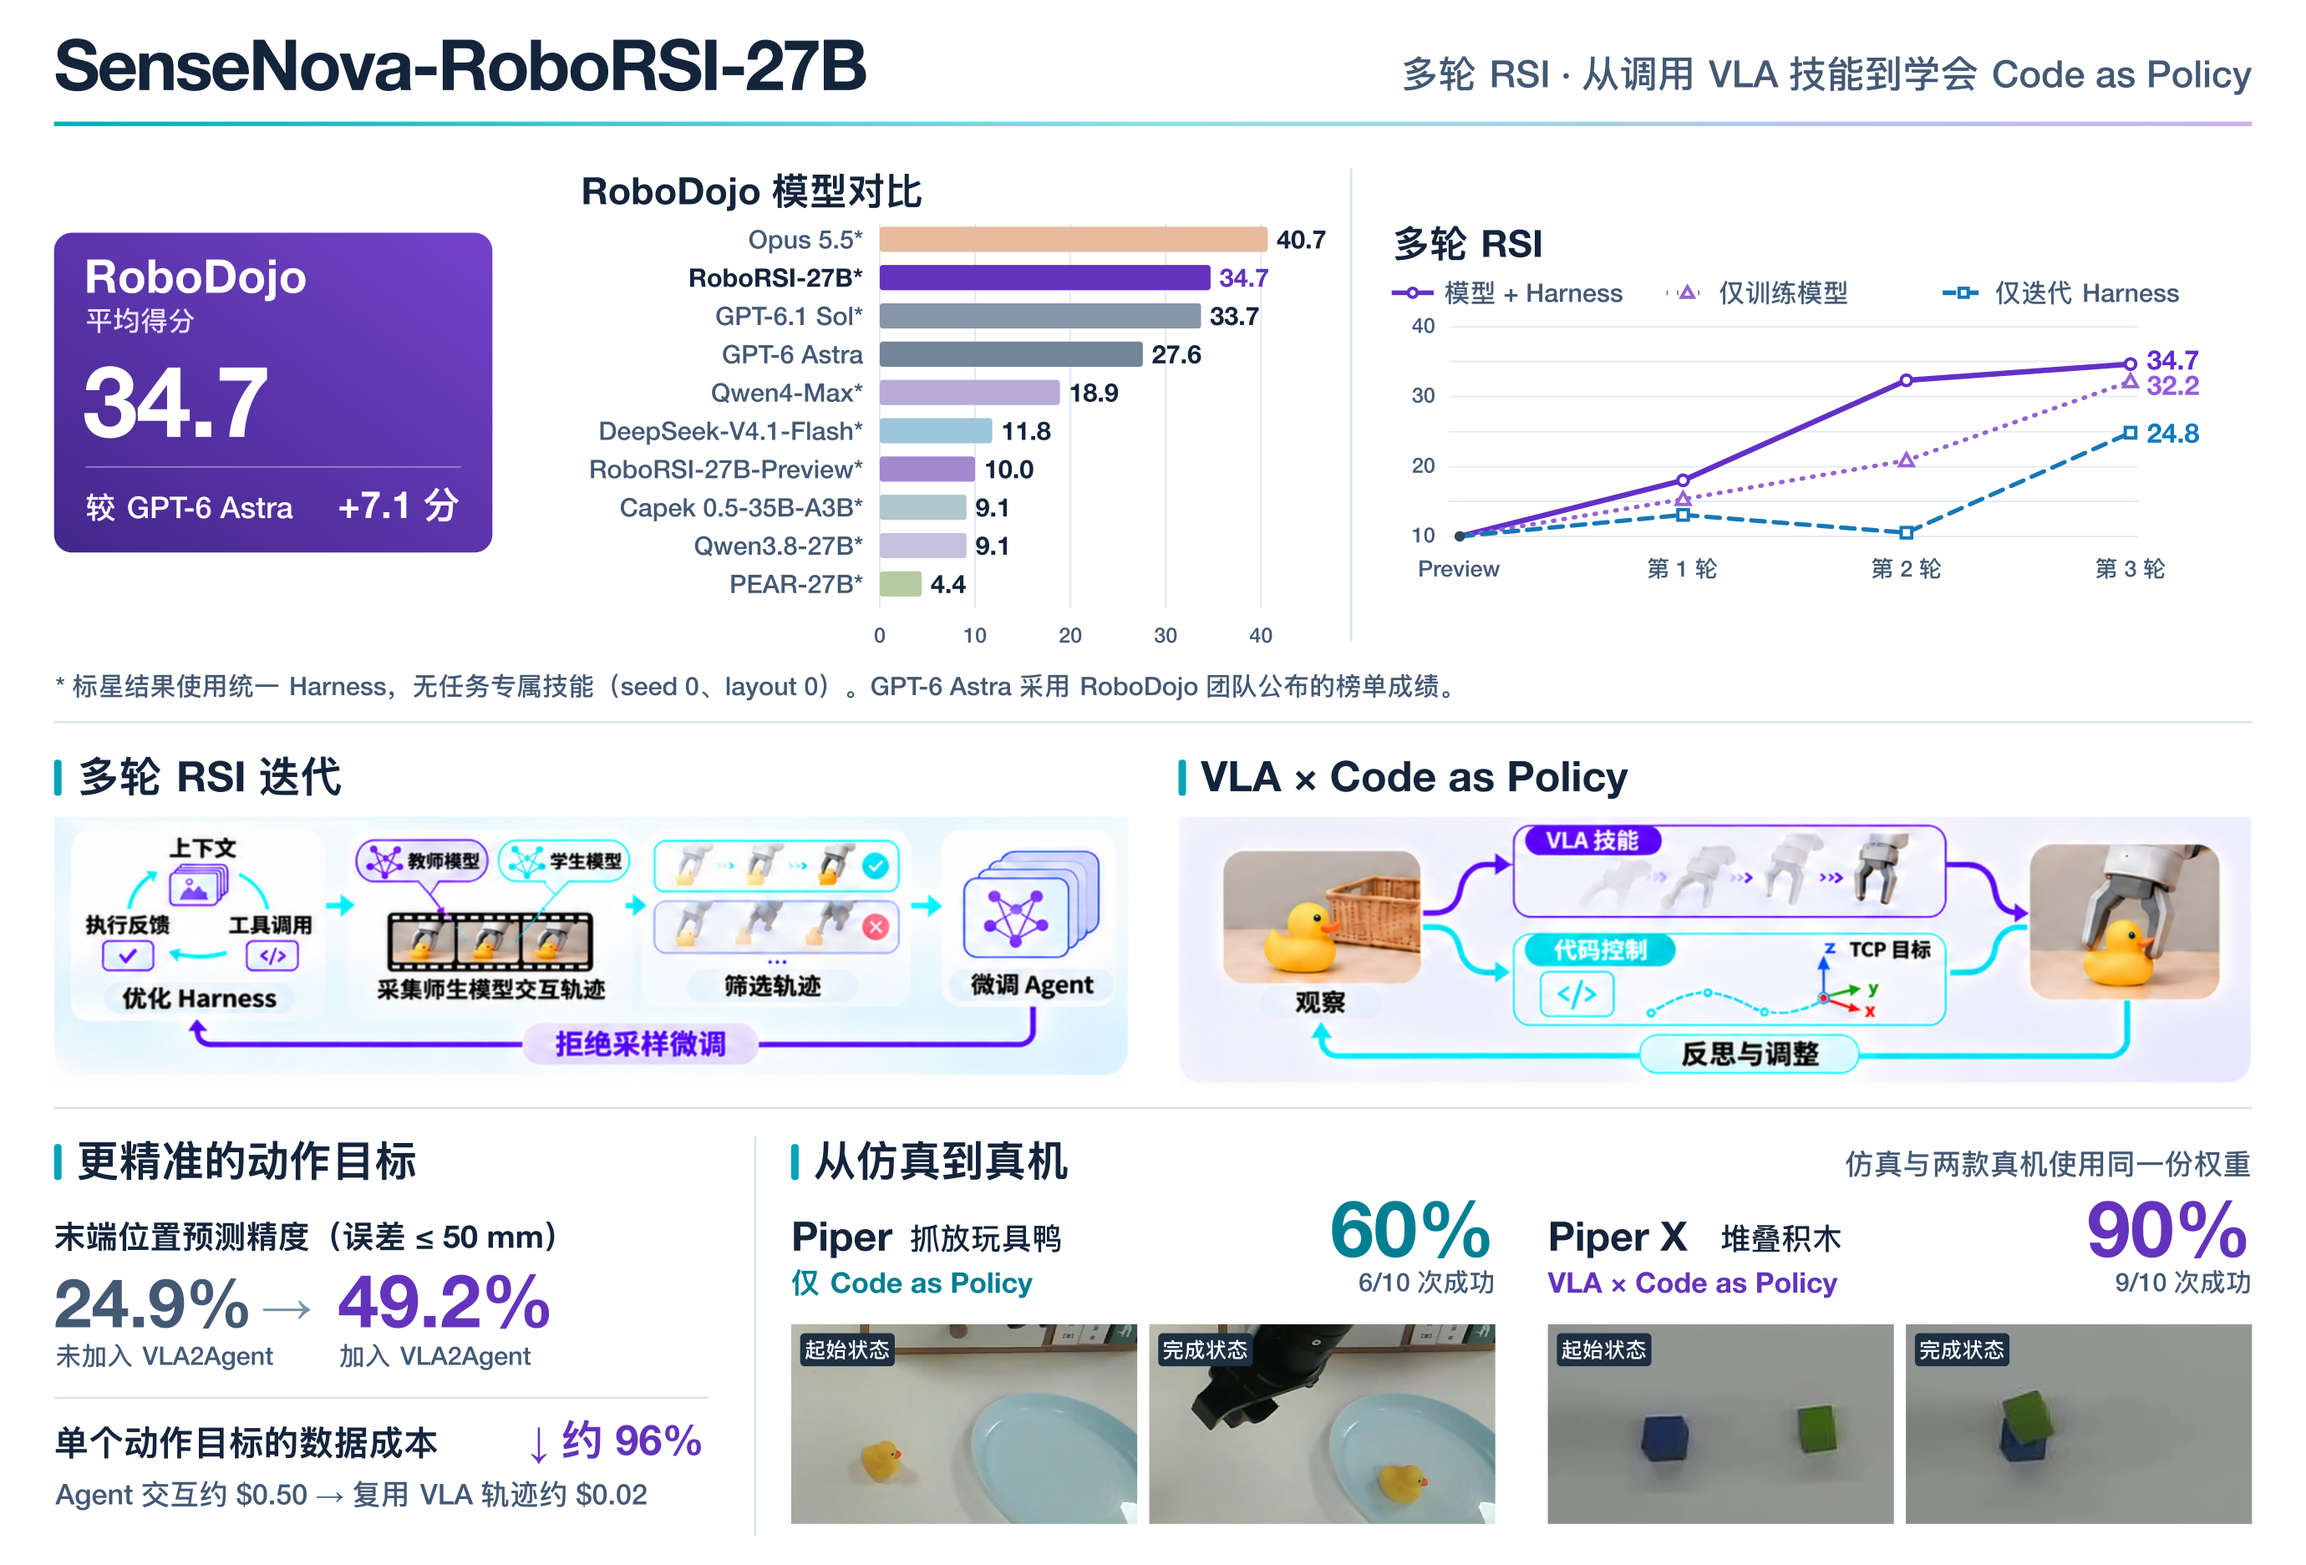
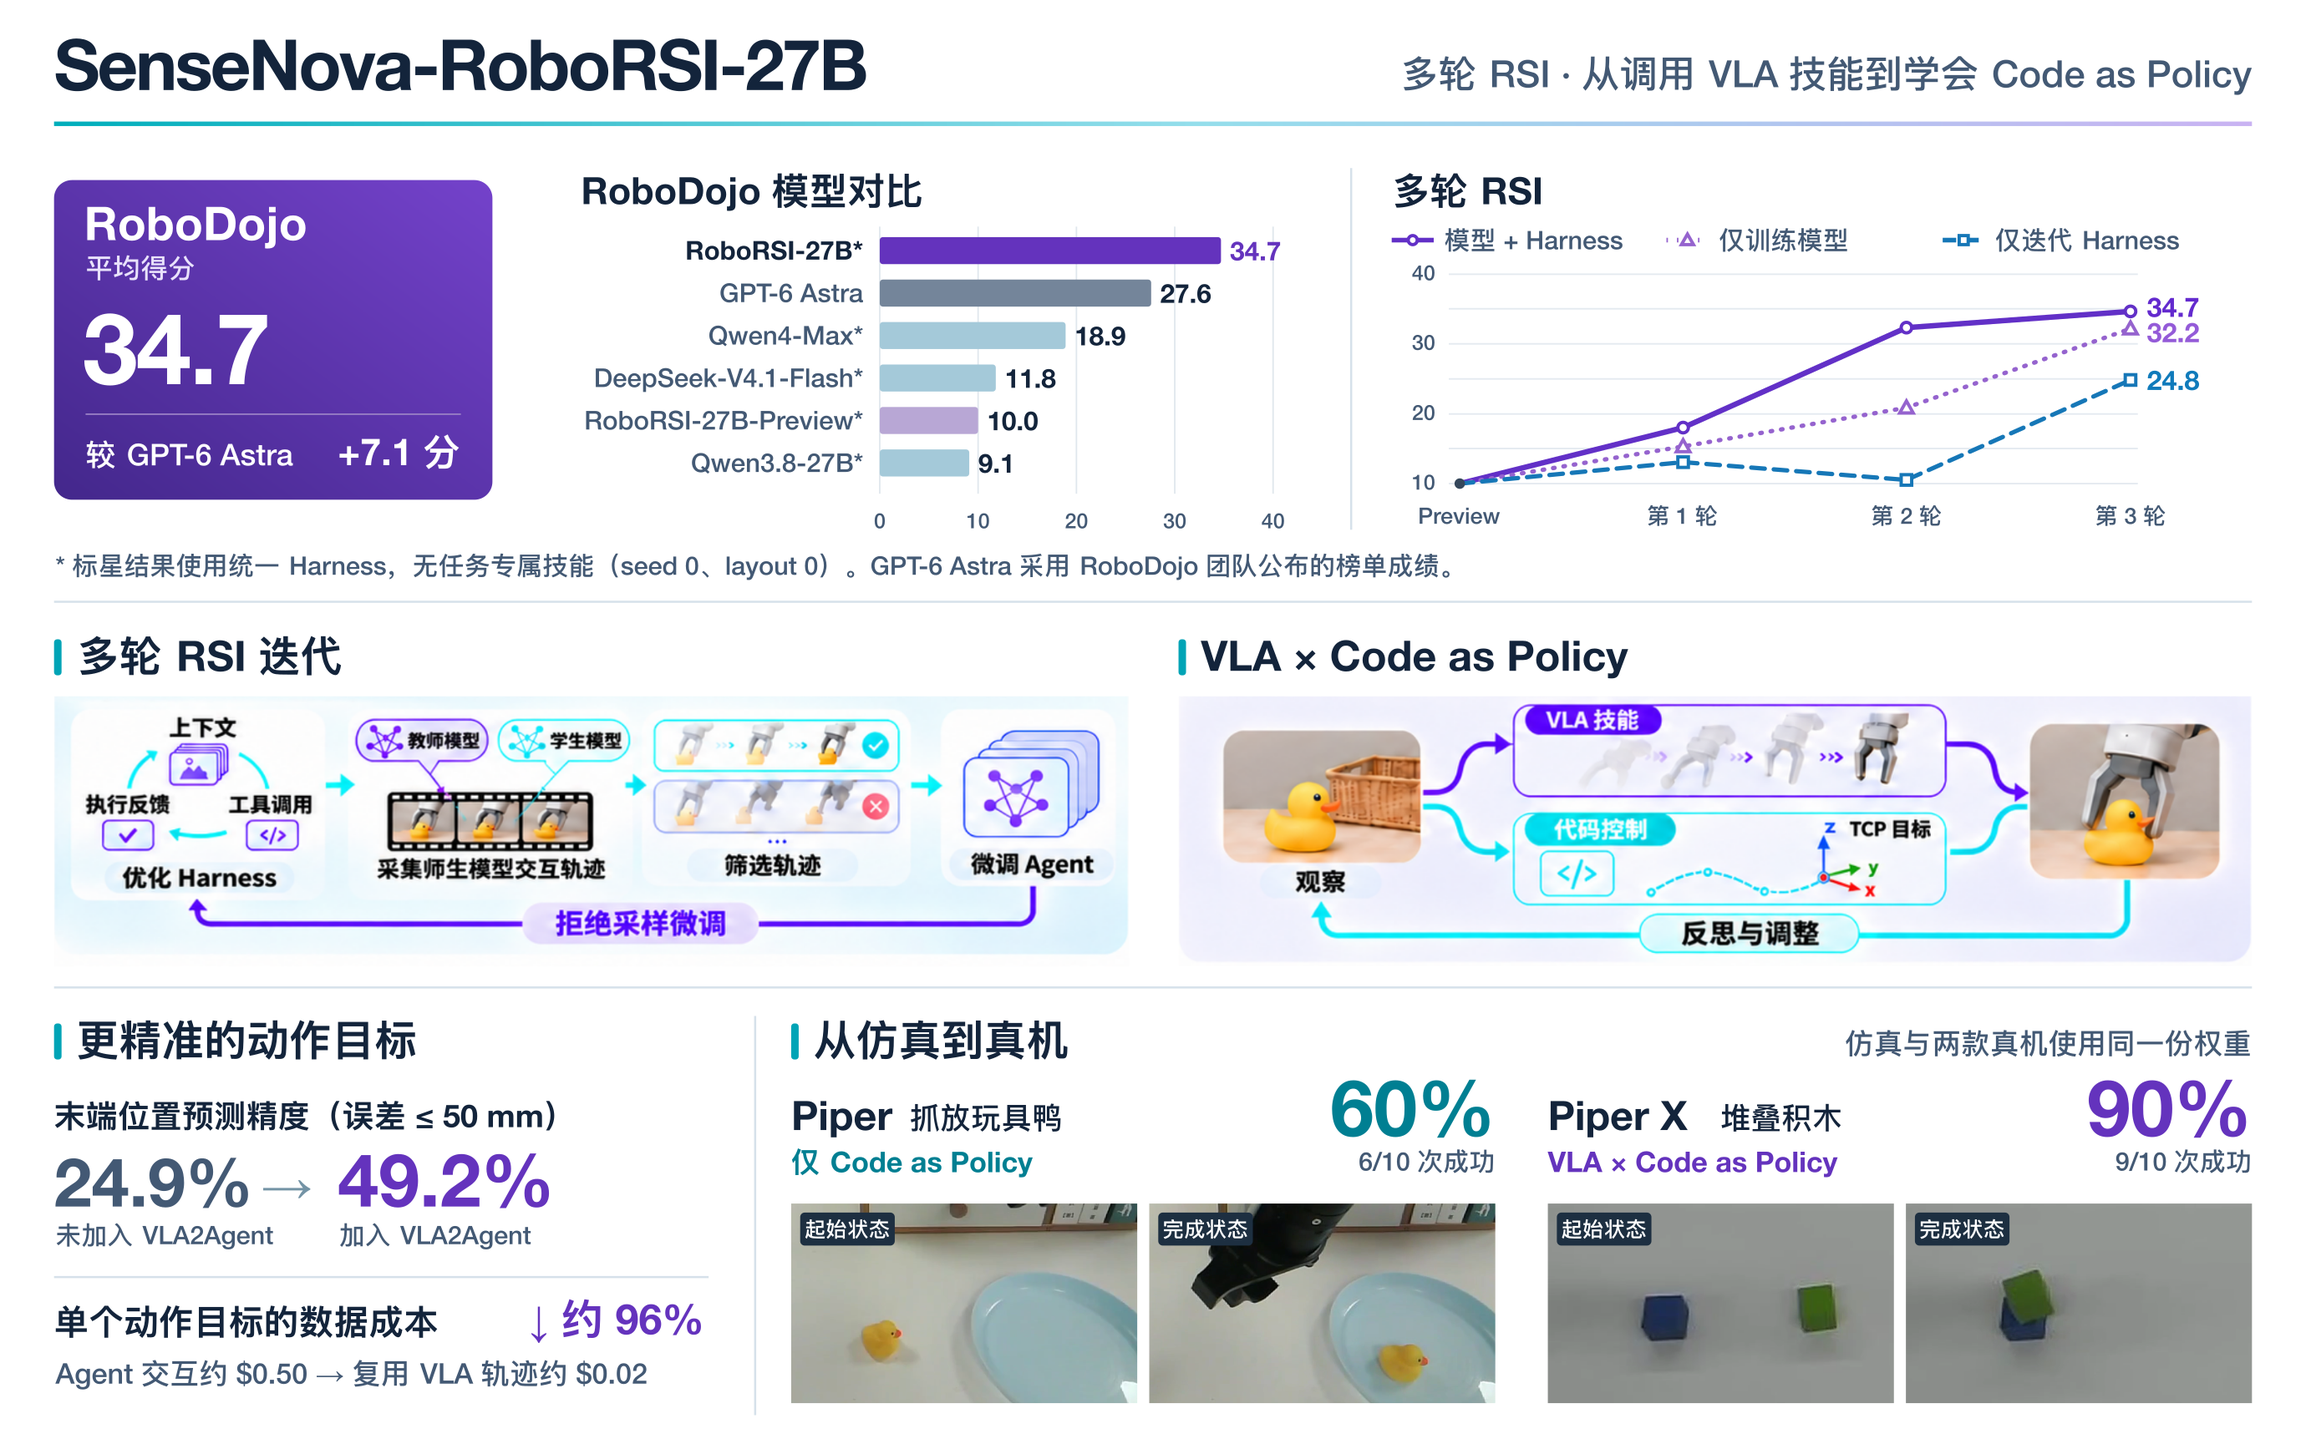
Restore the original bilingual homepage model teasers

diff --git a/README.md b/README.md
@@ -76,7 +76,7 @@ improvements are carried into the next agent version.
 
 [SenseNova-RoboRSI-27B](docs/sensenova-roborsi-27b.md) is a vision-language model for robot manipulation, refined alongside the RoboRSI Harness over multiple rounds of RSI. It can review trajectories proposed by a VLA policy and write code to compute target poses and control the gripper. SenseNova-RoboRSI-27B learns to use VLA and Code as Policy in simulation and uses the same weights to control physical robots.
 
-![RoboDojo average score of 34.7, comparison across ten models and three rounds of RSI, with real-robot results on Piper and Piper X](assets/roborsi-27b/homepage-teaser.png)
+![RoboDojo average score of 34.7, model comparison and three rounds of RSI, with real-robot results on Piper and Piper X](assets/roborsi-27b/homepage-teaser.png)
 
 ### Core capabilities
 

diff --git a/README.zh-CN.md b/README.zh-CN.md
@@ -71,7 +71,7 @@
 
 [SenseNova-RoboRSI-27B](docs/sensenova-roborsi-27b.zh-CN.md) 是面向机器人操作的视觉语言模型，通过多轮 RSI 与 RoboRSI Harness 协同迭代。模型可以审查 VLA 提出的候选轨迹，也可以编写代码计算目标位姿、控制夹爪。SenseNova-RoboRSI-27B 在仿真中学会使用 VLA 和 Code as Policy，并用同一份权重驱动真实机械臂。
 
-![RoboDojo 平均得分 34.7 分、十个模型的对比与三轮 RSI 迭代，以及 Piper 和 Piper X 的真机结果](assets/roborsi-27b/homepage-teaser.zh-CN.png)
+![RoboDojo 平均得分 34.7 分、模型对比与三轮 RSI 迭代，以及 Piper 和 Piper X 的真机结果](assets/roborsi-27b/homepage-teaser.zh-CN.png)
 
 ### 核心能力
 
